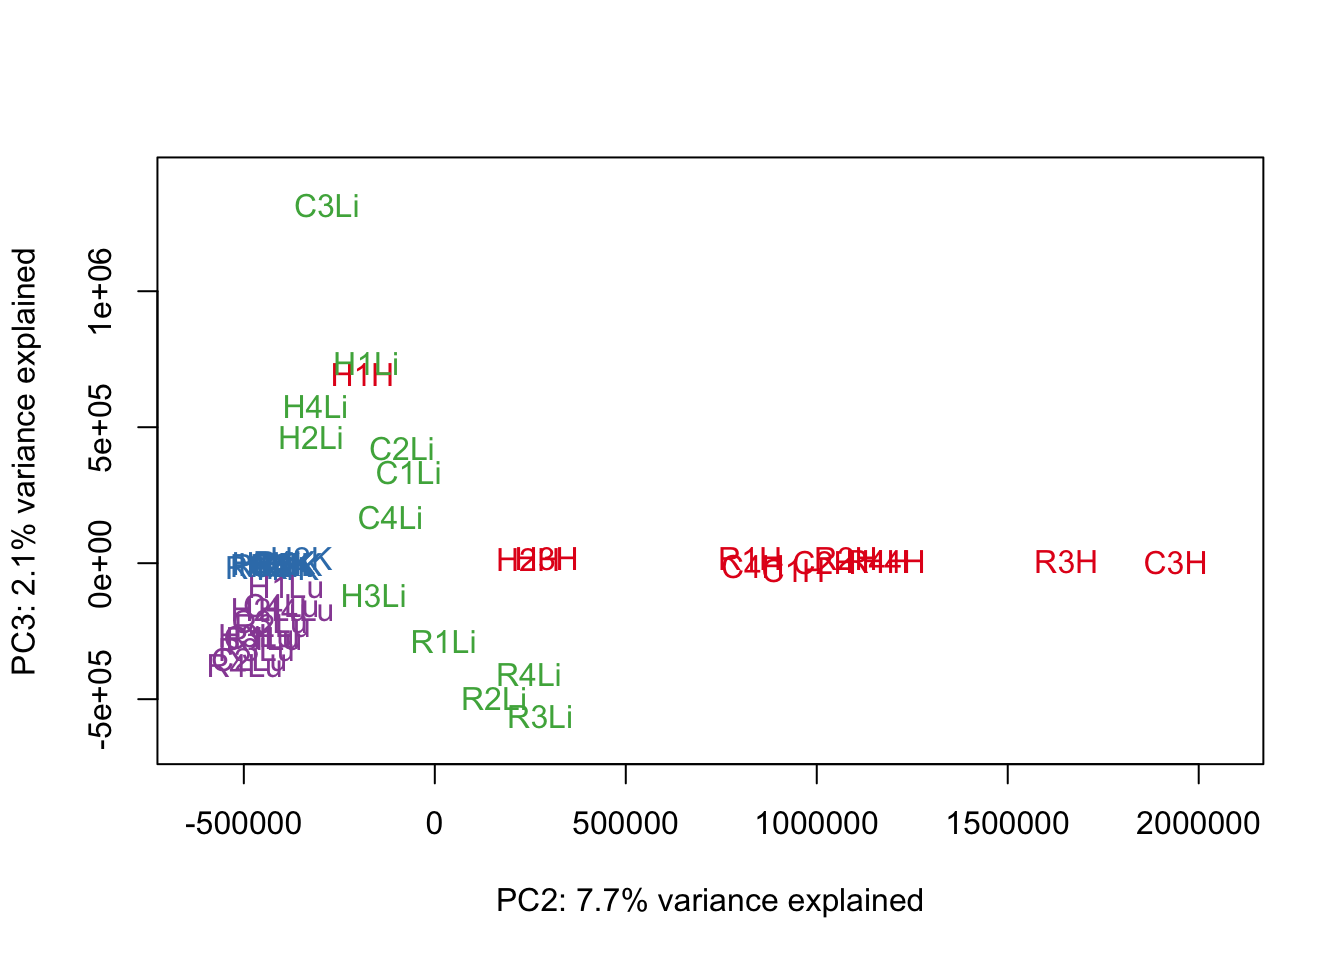
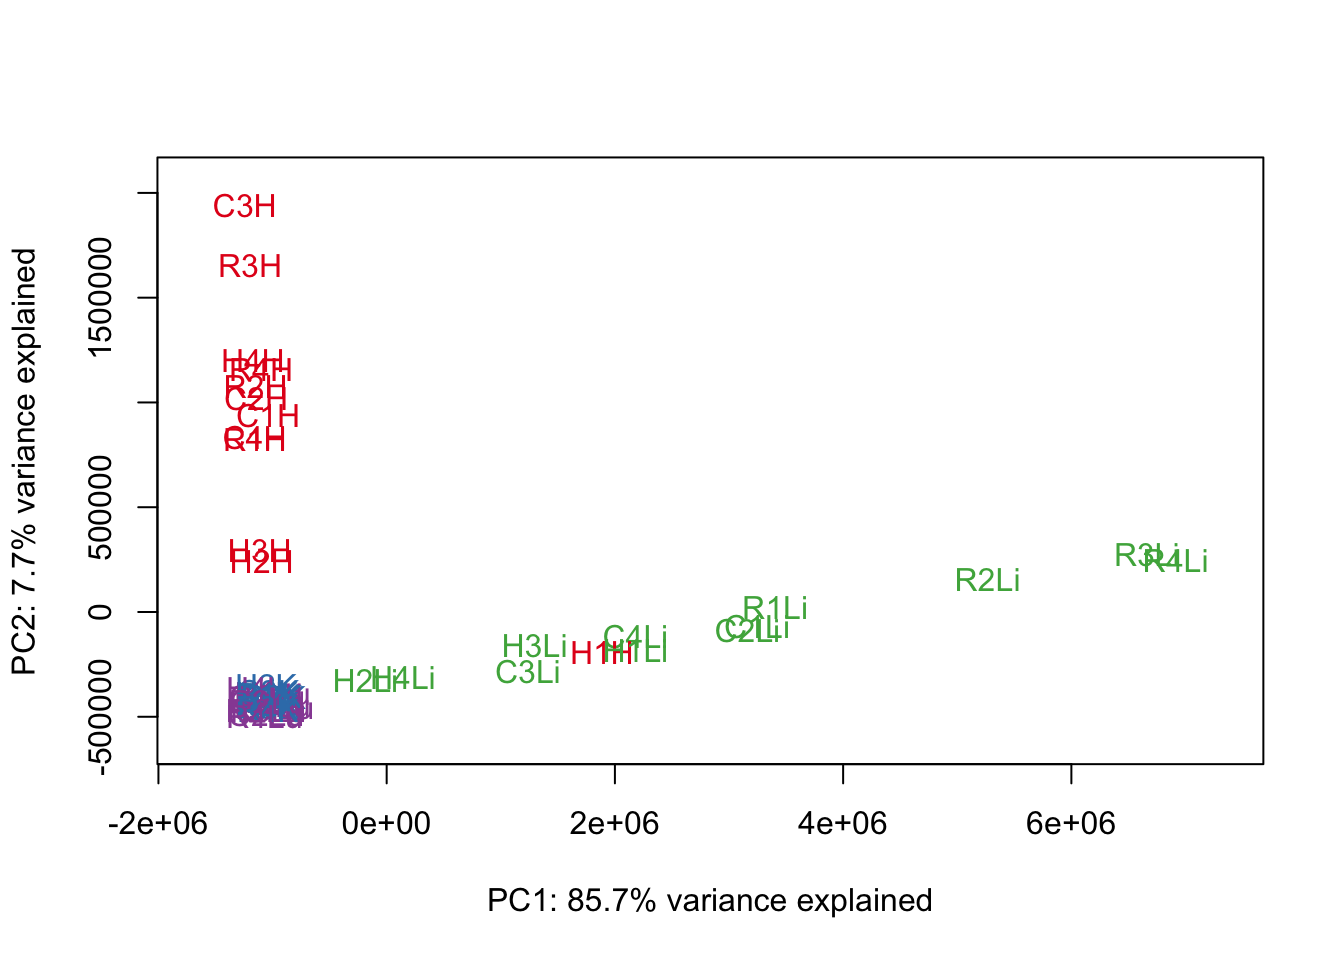
Add RNAseq normalizations raw data figures attempt 3

diff --git a/analysis/Normalization_plots.html b/analysis/Normalization_plots.html
@@ -168,7 +168,7 @@ labels &lt;- paste(samples$Species, samples$Tissue, sep=&quot; &quot;)</code></p
 </div>
 <div id="hierarchical-clustering-and-pca-on-raw-data" class="section level3">
 <h3>Hierarchical clustering and PCA on raw data</h3>
-<pre class="r"><code>#PCA function
+<pre class="r"><code>#PCA function (from Julien Roux)
 #Load in the plot_scores function
 plot_scores &lt;- function(pca, scores, n, m, cols, points=F, pchs =20, legend=F){
   xmin &lt;- min(scores[,n]) - (max(scores[,n]) - min(scores[,n]))*0.05
@@ -188,24 +188,22 @@ plot_scores &lt;- function(pca, scores, n, m, cols, points=F, pchs =20, legend=F
     points(scores[,n],scores[,m], col=cols, pch=pchs, cex=1.3)
   }
 }</code></pre>
-<pre class="r"><code># Clustering
+<pre class="r"><code># Clustering (from Julien Roux)
 cors &lt;- cor(counts_genes, method=&quot;spearman&quot;, use=&quot;pairwise.complete.obs&quot;)
 
 dev.off()</code></pre>
 <pre><code>## null device 
 ##           1</code></pre>
-<pre class="r"><code>heatmap.2( cors, scale=&quot;none&quot;, col = colors, margins = c(12, 12), trace=&#39;none&#39;, denscol=&quot;white&quot;, labCol=labels, ColSideColors=pal[as.integer(as.factor(samples$Species))], RowSideColors=pal[as.integer(as.factor(samples$Tissue))+9], cexCol = 0.2 + 1/log10(15), cexRow = 0.2 + 1/log10(15))
-
-
-# Check that there&#39;s no &quot;NAs&quot; in the data
+<pre class="r"><code>heatmap.2( cors, scale=&quot;none&quot;, col = colors, margins = c(12, 12), trace=&#39;none&#39;, denscol=&quot;white&quot;, labCol=labels, ColSideColors=pal[as.integer(as.factor(samples$Species))], RowSideColors=pal[as.integer(as.factor(samples$Tissue))+9], cexCol = 0.2 + 1/log10(15), cexRow = 0.2 + 1/log10(15))</code></pre>
+<pre class="r"><code># Check that there&#39;s no &quot;NAs&quot; in the data
 select &lt;- counts_genes
 summary(apply(select, 1, var) == 0) </code></pre>
 <pre><code>##    Mode   FALSE    TRUE    NA&#39;s 
 ## logical   28253    1777       0</code></pre>
-<pre class="r"><code>pca_genes &lt;- prcomp(t(counts_genes), scale = F)
+<pre class="r"><code># Perform PCA
+
+pca_genes &lt;- prcomp(t(counts_genes), scale = F)
 scores &lt;- pca_genes$x
-
-
 
 
 #Make PCA plots with the factors colored by tissue
@@ -214,14 +212,15 @@ scores &lt;- pca_genes$x
 for (n in 1:2){
   col.v &lt;- pal[as.integer(samples$Tissue)]
   plot_scores(pca_genes, scores, n, n+1, col.v)
-}
-
-### PCs 3 and 4 Raw Data
+}</code></pre>
+<p><img src="Normalization_plots_files/figure-html/unnamed-chunk-4-1.png" title="" alt="" width="672" /></p>
+<pre class="r"><code>### PCs 3 and 4 Raw Data
 
 for (n in 2:3){
   col.v &lt;- pal[as.integer(samples$Tissue)]
   plot_scores(pca_genes, scores, n, n+1, col.v)
 }</code></pre>
+<p><img src="Normalization_plots_files/figure-html/unnamed-chunk-4-2.png" title="" alt="" width="672" /><img src="Normalization_plots_files/figure-html/unnamed-chunk-4-3.png" title="" alt="" width="672" /></p>
 </div>
 <div id="pcs-3-and-4-raw-data" class="section level3">
 <h3>PCs 3 and 4 Raw Data</h3>
